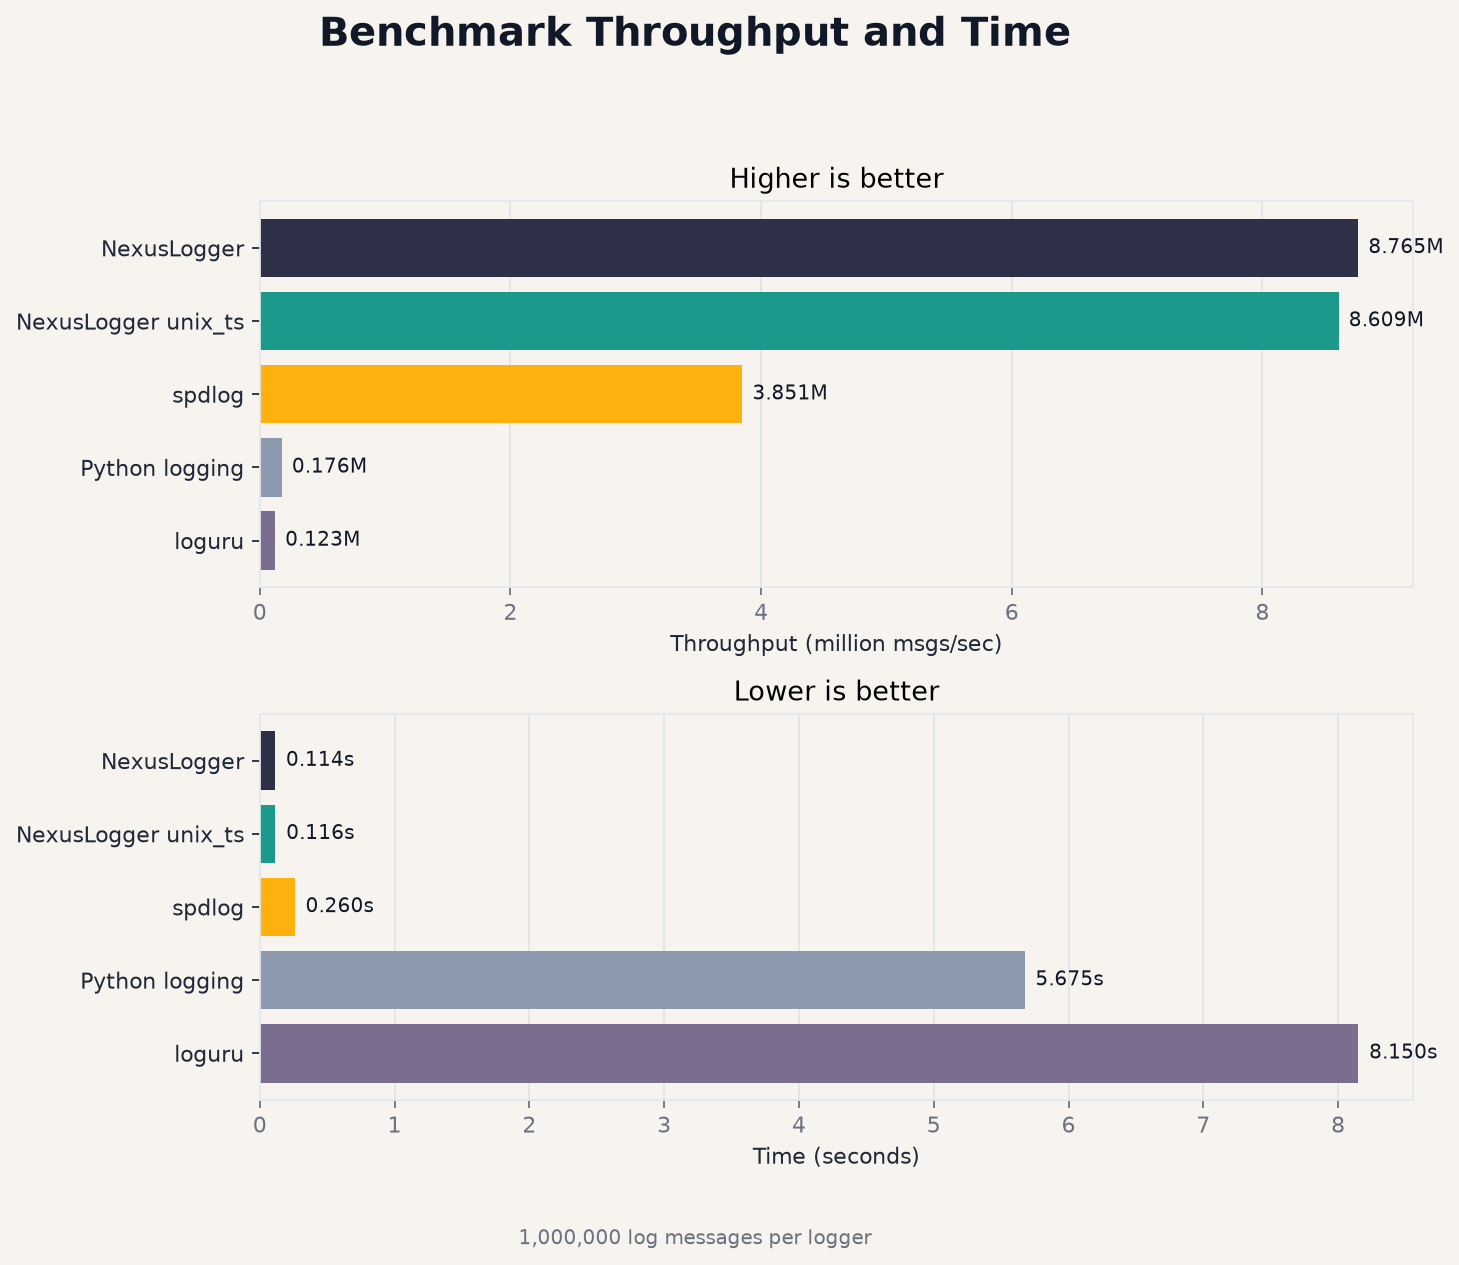
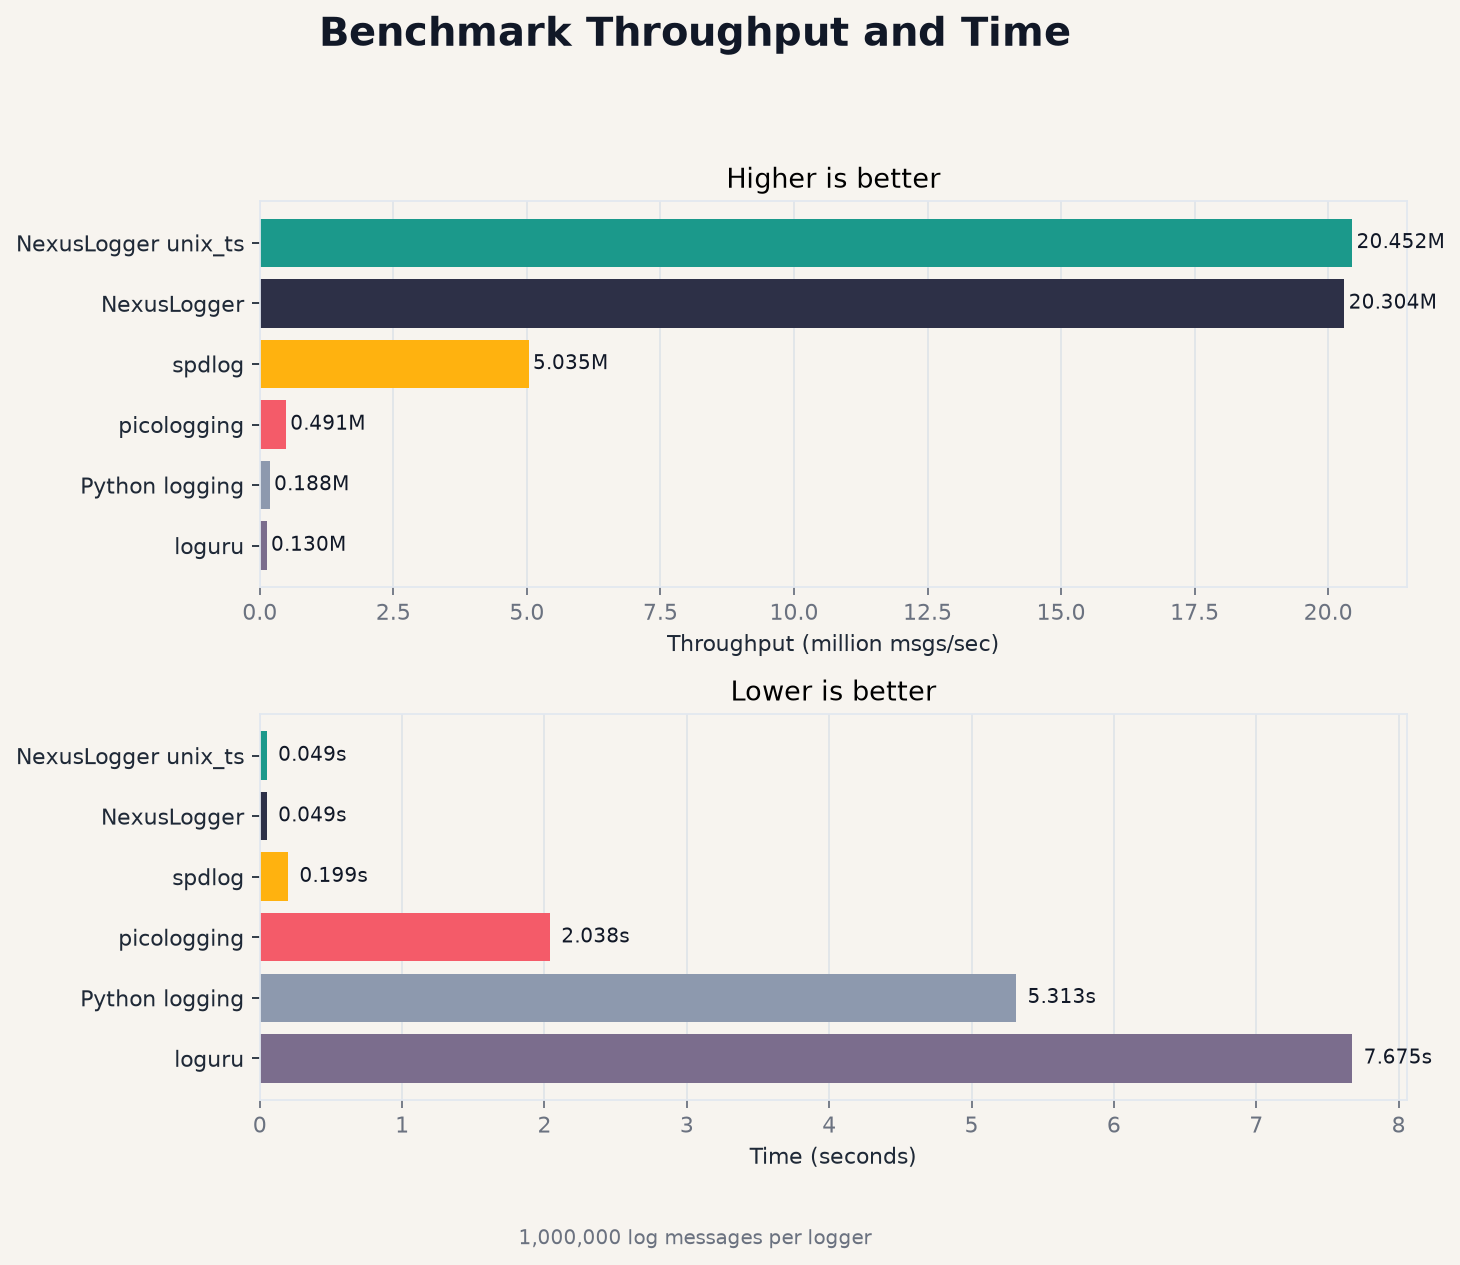
chore: update benchmark results and improve logging message formatting, bump version to 0.6.0

diff --git a/benches/bench_python.py b/benches/bench_python.py
@@ -24,9 +24,11 @@ def bench_picologging(log_file: str) -> float:
     )
     pico_logger.addHandler(handler)
 
+    messages = [f"Benchmark message number {i}" for i in range(N_MESSAGES)]
+
     start = time.perf_counter()
-    for i in range(N_MESSAGES):
-        pico_logger.info("Benchmark message number %d", i)
+    for msg in messages:
+        pico_logger.info(msg)
     handler.flush()
     elapsed = time.perf_counter() - start
 
@@ -45,9 +47,11 @@ def bench_loguru(log_file: str) -> float:
         level="INFO",
     )
 
+    messages = [f"Benchmark message number {i}" for i in range(N_MESSAGES)]
+
     start = time.perf_counter()
-    for i in range(N_MESSAGES):
-        logger.info("Benchmark message number {}", i)
+    for msg in messages:
+        logger.info(msg)
     elapsed = time.perf_counter() - start
 
     logger.remove(sink_id)
@@ -65,8 +69,10 @@ N_MESSAGES = {N_MESSAGES}
 logger = logxide.getLogger("logxide_bench")
 logger.setLevel(logxide.INFO)
 
-for i in range(N_MESSAGES):
-    logger.info("Benchmark message number %d", i)
+messages = [f"Benchmark message number {{i}}" for i in range(N_MESSAGES)]
+
+for msg in messages:
+    logger.info(msg)
 
 logxide.flush()
 """
@@ -92,9 +98,11 @@ def bench_spdlog(log_file: str) -> float:
     else:
         raise RuntimeError("spdlog.FileLogger is not available in this spdlog build")
 
+    messages = [f"Benchmark message number {i}" for i in range(N_MESSAGES)]
+
     start = time.perf_counter()
-    for i in range(N_MESSAGES):
-        spd_logger.info(f"Benchmark message number {i}")
+    for msg in messages:
+        spd_logger.info(msg)
     if hasattr(spd_logger, "flush"):
         spd_logger.flush()
     elapsed = time.perf_counter() - start
@@ -197,9 +205,11 @@ def bench_python_logging(log_file: str) -> float:
     )
     py_logger.addHandler(handler)
 
+    messages = [f"Benchmark message number {i}" for i in range(N_MESSAGES)]
+
     start = time.perf_counter()
-    for i in range(N_MESSAGES):
-        py_logger.info("Benchmark message number %d", i)
+    for msg in messages:
+        py_logger.info(msg)
     handler.flush()
     elapsed = time.perf_counter() - start
 
@@ -209,15 +219,23 @@ def bench_python_logging(log_file: str) -> float:
 
 
 def bench_rust_logger(log_file: str, unix_ts: bool) -> float:
-    """Benchmark NexusLogger."""
+    """Benchmark NexusLogger.
+
+    Messages are pre-formatted outside the timed region so the benchmark
+    measures the logger's own throughput rather than Python-side f-string
+    formatting (a fixed ~200ns/msg cost that dilutes library speedups). This
+    mirrors benches/micro.py and lets version-over-version gains show through.
+    """
     import nexuslog as logging
 
     logging.basicConfig(log_file, level=logging.Level.Info, unix_ts=unix_ts)
     log = logging.getLogger("bench")
 
+    messages = [f"Benchmark message number {i}" for i in range(N_MESSAGES)]
+
     start = time.perf_counter()
-    for i in range(N_MESSAGES):
-        log.info(f"Benchmark message number {i}")
+    for msg in messages:
+        log.info(msg)
     log.shutdown()  # Ensures all messages are flushed
     elapsed = time.perf_counter() - start
 

diff --git a/README.md b/README.md
@@ -18,21 +18,24 @@ High-performance async logging library, compatible with Python standard logging 
 Benchmarking with 1,000,000 log messages
 
 ------------------------------------------------------------
-Logger               Time (s)     Msgs/sec        Log size
+Logger               Time (s)     Msgs/sec        Log size    
 ------------------------------------------------------------
-loguru               8.150        122,696         89,888,890 bytes
-Python logging       5.675        176,226         82,888,890 bytes
-spdlog               0.260        3,850,774       79,888,890 bytes
-NexusLogger unix_ts  0.116        8,608,575       85,888,890 bytes
-NexusLogger          0.114        8,765,093       97,888,890 bytes
+loguru               7.675        130,297         89,888,890 bytes
+Python logging       5.313        188,206         82,888,890 bytes
+picologging          2.038        490,626         79,888,888 bytes
+spdlog               0.199        5,034,527       79,888,890 bytes
+NexusLogger          0.049        20,304,036      97,888,890 bytes
+NexusLogger unix_ts  0.049        20,451,884      83,868,922 bytes
 ------------------------------------------------------------
 
-NexusLogger is 49.74x faster than Python logging
-NexusLogger is 71.44x faster than loguru
-NexusLogger is 2.28x faster than spdlog
-NexusLogger unix_ts is 48.85x faster than Python logging
-NexusLogger unix_ts is 70.16x faster than loguru
-NexusLogger unix_ts is 2.24x faster than spdlog
+NexusLogger is 4.03x faster than spdlog
+NexusLogger is 41.38x faster than picologging
+NexusLogger is 107.88x faster than Python logging
+NexusLogger is 155.83x faster than loguru
+NexusLogger unix_ts is 4.06x faster than spdlog
+NexusLogger unix_ts is 41.69x faster than picologging
+NexusLogger unix_ts is 108.67x faster than Python logging
+NexusLogger unix_ts is 156.96x faster than loguru
 ```
 
 ## Installation

diff --git a/README_CN.md b/README_CN.md
@@ -18,21 +18,24 @@
 Benchmarking with 1,000,000 log messages
 
 ------------------------------------------------------------
-Logger               Time (s)     Msgs/sec        Log size
+Logger               Time (s)     Msgs/sec        Log size    
 ------------------------------------------------------------
-loguru               8.150        122,696         89,888,890 bytes
-Python logging       5.675        176,226         82,888,890 bytes
-spdlog               0.260        3,850,774       79,888,890 bytes
-NexusLogger unix_ts  0.116        8,608,575       85,888,890 bytes
-NexusLogger          0.114        8,765,093       97,888,890 bytes
+loguru               7.675        130,297         89,888,890 bytes
+Python logging       5.313        188,206         82,888,890 bytes
+picologging          2.038        490,626         79,888,888 bytes
+spdlog               0.199        5,034,527       79,888,890 bytes
+NexusLogger          0.049        20,304,036      97,888,890 bytes
+NexusLogger unix_ts  0.049        20,451,884      83,868,922 bytes
 ------------------------------------------------------------
 
-NexusLogger is 49.74x faster than Python logging
-NexusLogger is 71.44x faster than loguru
-NexusLogger is 2.28x faster than spdlog
-NexusLogger unix_ts is 48.85x faster than Python logging
-NexusLogger unix_ts is 70.16x faster than loguru
-NexusLogger unix_ts is 2.24x faster than spdlog
+NexusLogger is 4.03x faster than spdlog
+NexusLogger is 41.38x faster than picologging
+NexusLogger is 107.88x faster than Python logging
+NexusLogger is 155.83x faster than loguru
+NexusLogger unix_ts is 4.06x faster than spdlog
+NexusLogger unix_ts is 41.69x faster than picologging
+NexusLogger unix_ts is 108.67x faster than Python logging
+NexusLogger unix_ts is 156.96x faster than loguru
 ```
 
 ## 安装